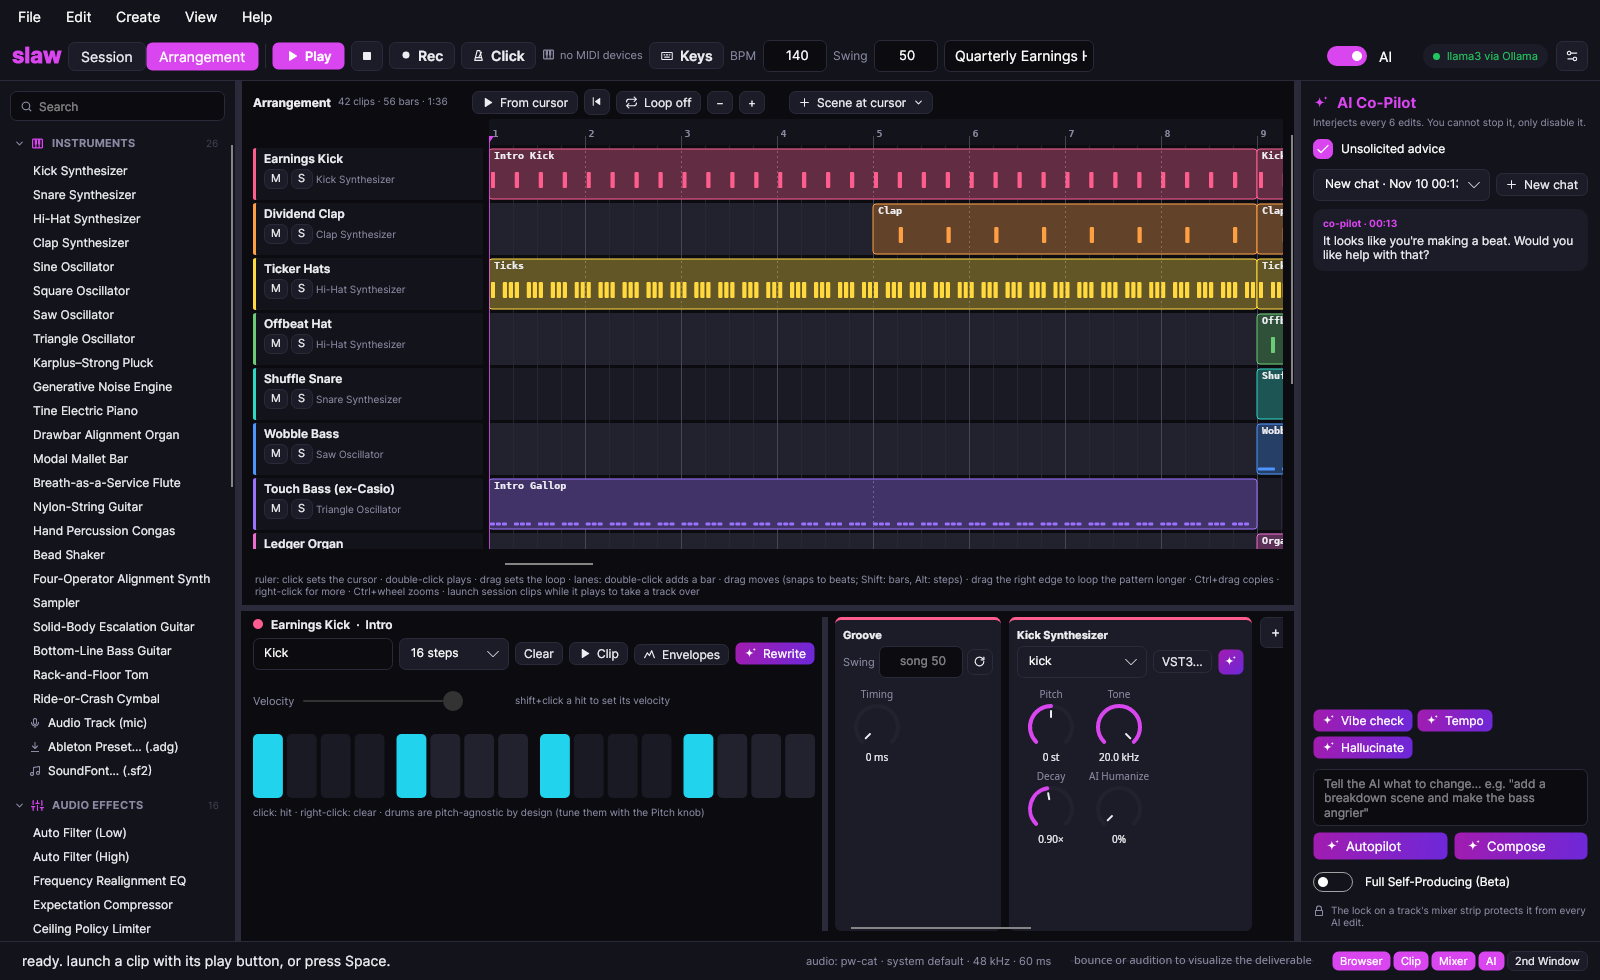
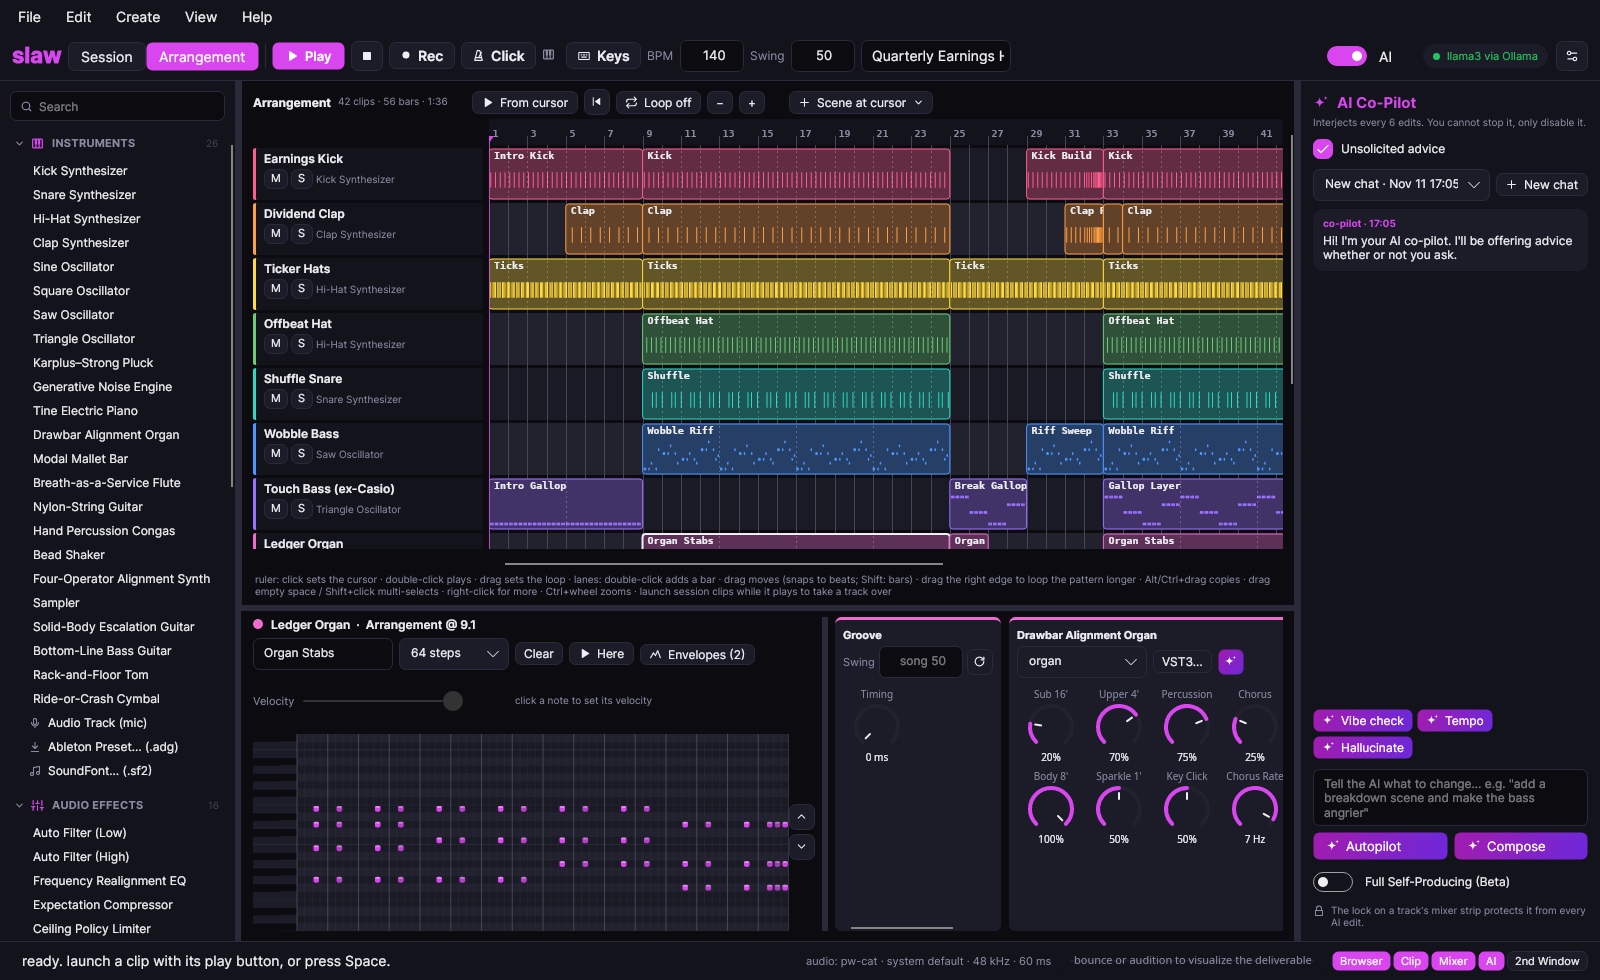
docs: refresh the README's visual assets so the screenshots stop lagging the product
- New renders of the real StudioWindow (Avalonia.Headless, Inter, the
  quarterly-earnings-house example). The Session shot now has a melodic
  clip selected, so its piano roll is actually in the picture the caption
  promised. The Arrangement shot is zoomed out to show the song's shape
  through the first drop, with the current gesture hint.
- assets/studio.png (used by the GitHub Pages site) re-rendered at its
  old size.
- New assets/studio-themes.png: the same window in all three built-in
  themes, one slice each.
- "What's in the box" now mentions mic recording with metronome and
  count-in, autotune, and themes.

diff --git a/README.md b/README.md
@@ -14,12 +14,17 @@
 
 - **A session-view studio** in the Ableton shape: clips, scenes, mixer strips, device chains and an arrangement timeline, on Linux, macOS and Windows. A real-time engine means every note, knob and whole-song AI rewrite is heard on the next step.
 - **Its own instruments and effects**: synths, an FM electric piano, an organ, drums, a four-operator synth, a parametric EQ and a compressor. Zero samples shipped, because samples would imply someone recorded something on purpose.
-- **Your sounds too**: VST3 plugins, SoundFonts, WAV kits, MIDI files and Ableton `.adg` presets.
+- **Your sounds too**: VST3 plugins, SoundFonts, WAV kits, MIDI files and Ableton `.adg` presets. And your voice: record from the microphone against a metronome and count-in, then let autotune move every take into the song's key.
 - **AI that can be dismissed**: Autopilot rewrites the song, Full Self-Producing does it in a loop, and a co-pilot interjects unasked. Ollama, OpenAI, Gemini, Claude or any compatible server. Locked tracks are left alone, because boundaries matter. **You can turn the AI off.** Nobody at slopstack labs has ever turned it off.
 - **MCP for other AIs**: agents edit the song you have open while it plays, then read back its loudness, tonal balance, likely masking and wrong notes, since none of them can hear it either.
+- **Your colours**: three themes ship (dark, light and after-hours), and one of your own is a few lines of JSON, previewed as you pick it.
 - **Undo for everything**, including the AI's decisions.
 
 ![The Arrangement view: a deep house song as clips on a timeline](assets/studio-arrangement.png)
+
+Not every organisation's brand is near-black and magenta. The same studio in all three built-in [themes](wiki/Themes.md):
+
+![The Session view in three slices: slaw (dark, magenta), Open Plan Office (light) and After Hours (warm dark, amber)](assets/studio-themes.png)
 
 ## Get started
 
